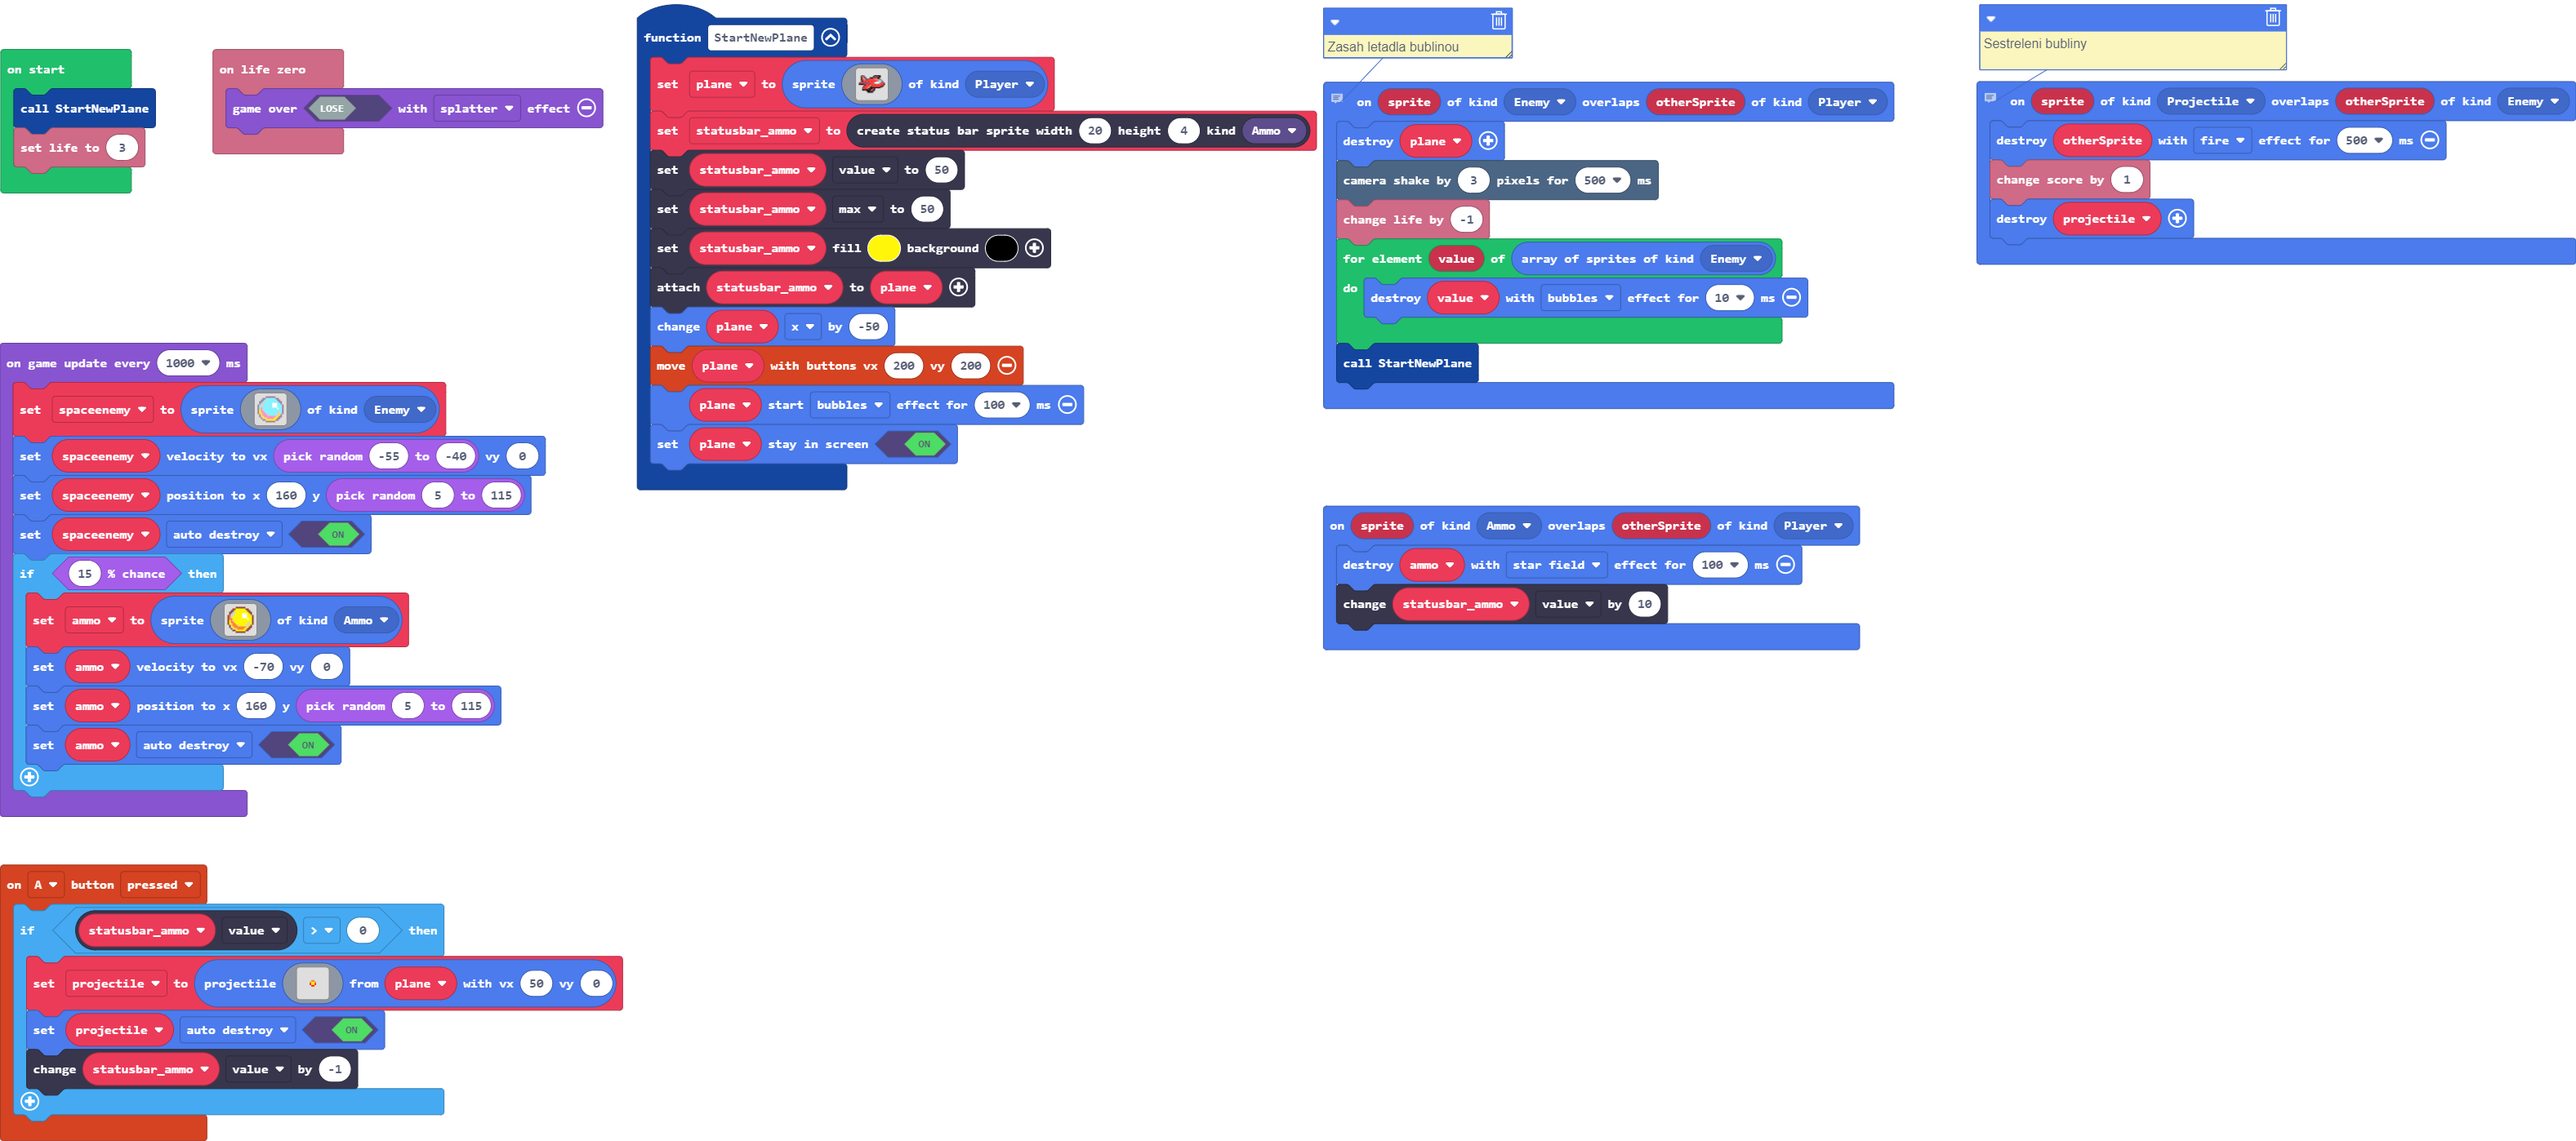
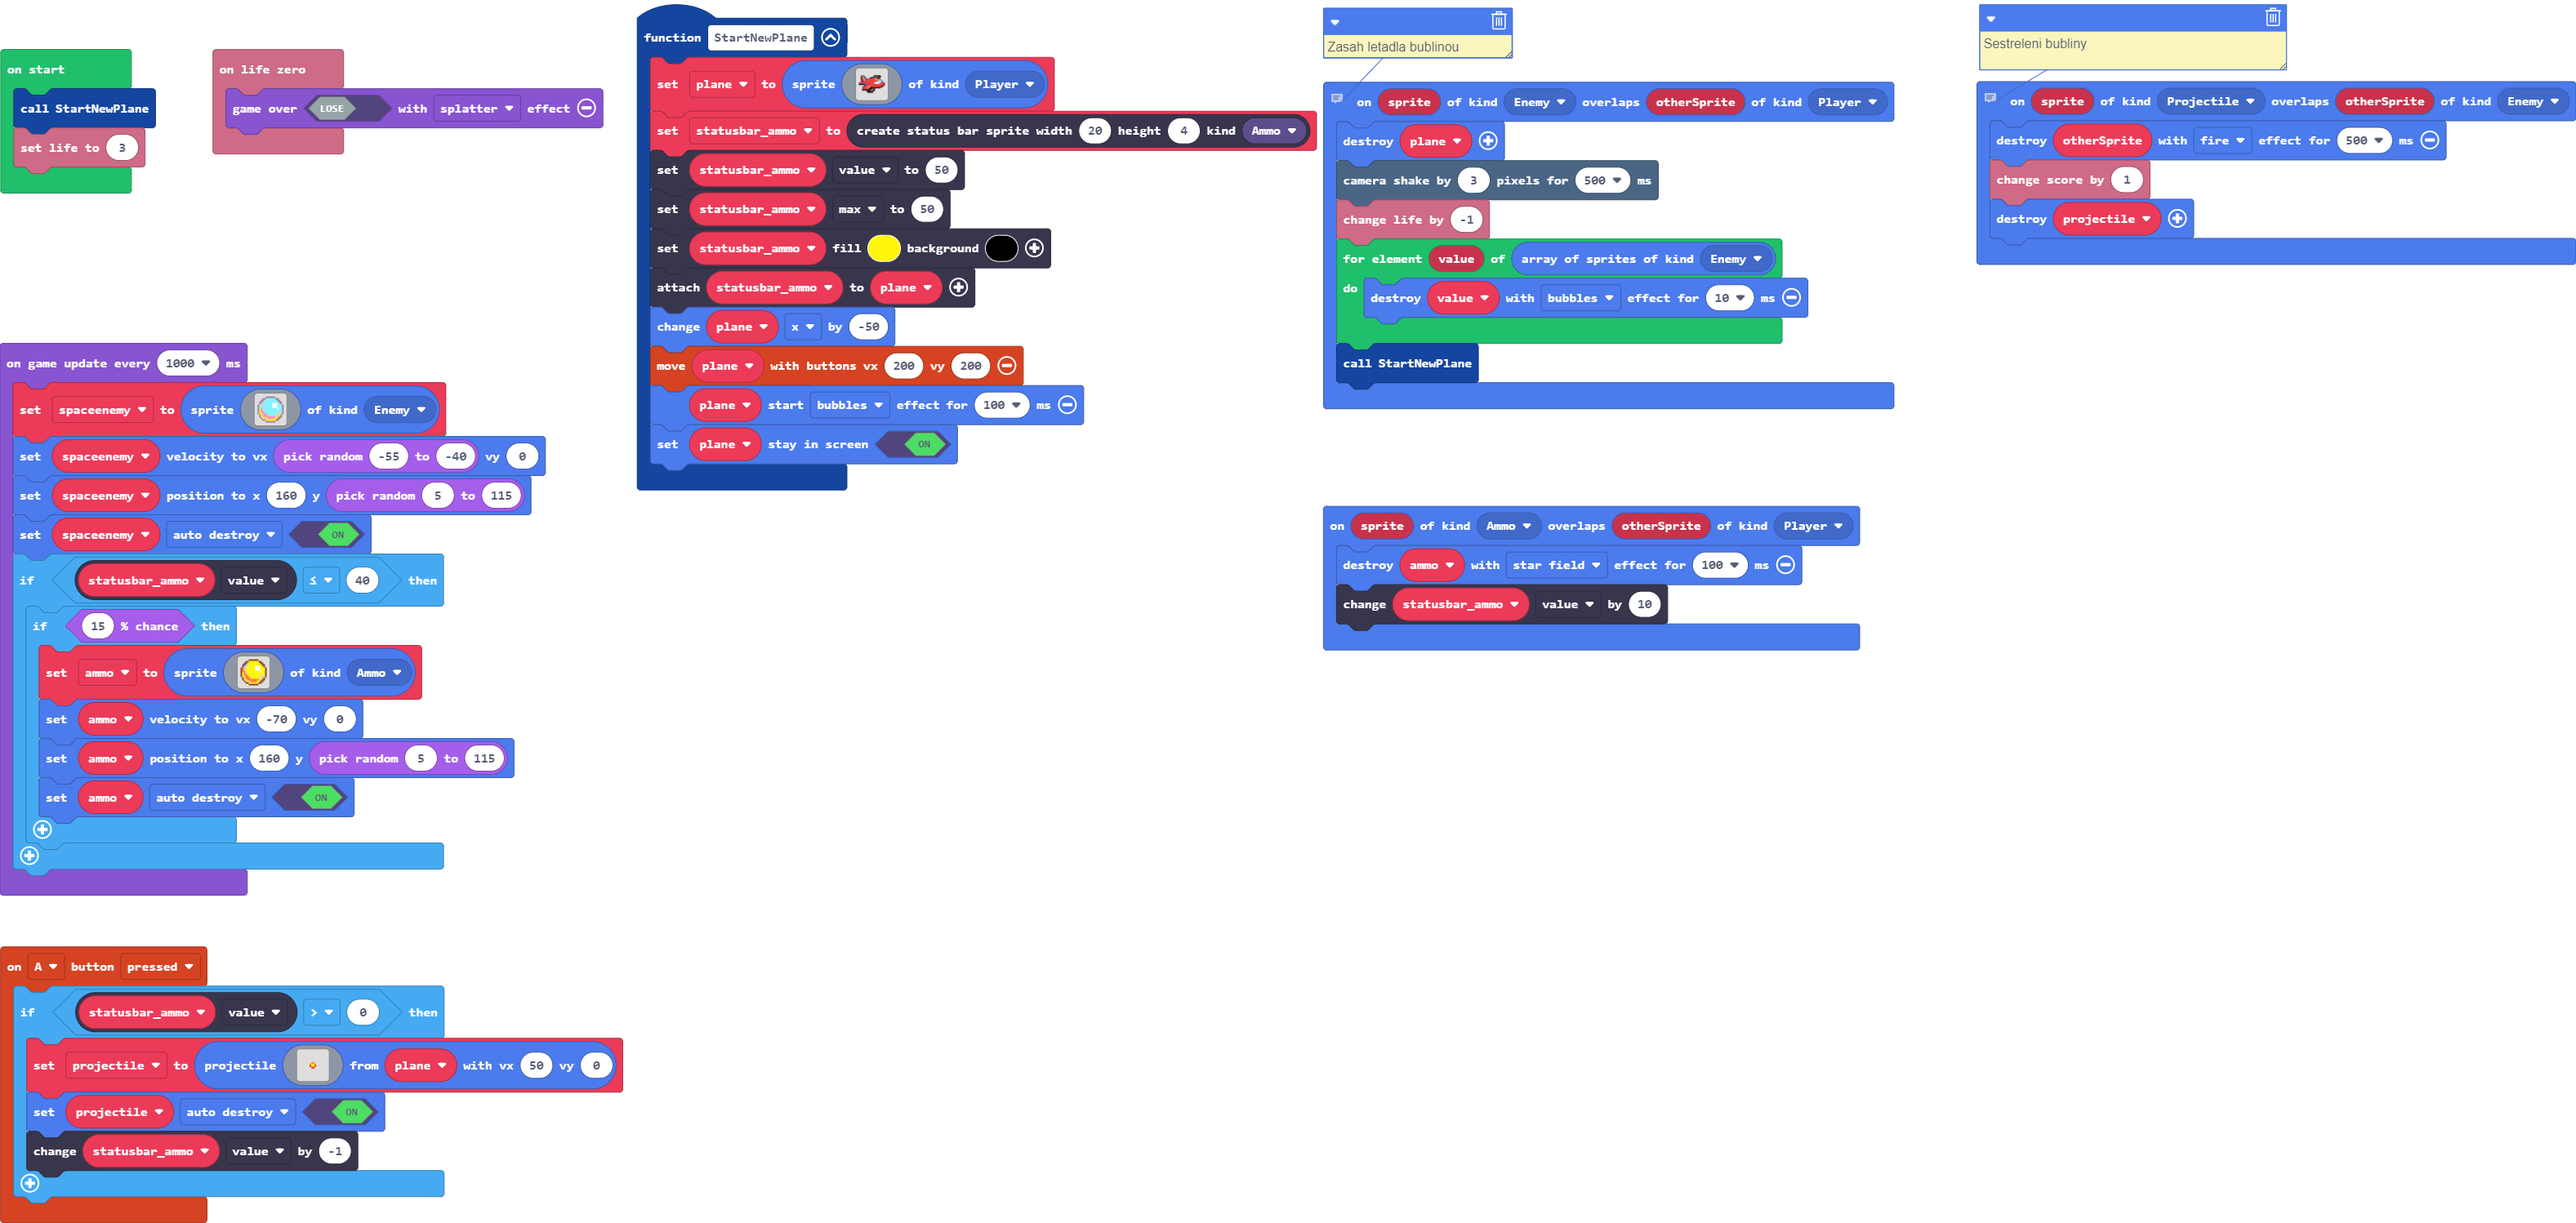
doplneni streliva jen kdyz je to potreba

Changed region(s): [[0.0, 0.0, 1.0, 0.4306], [0.0, 0.2768, 0.2486, 0.9843], [0.4971, 0.3999, 0.7457, 0.5844]]

diff --git a/main.ts b/main.ts
@@ -109,27 +109,29 @@ game.onUpdateInterval(1000, function () {
     spaceenemy.setVelocity(randint(-55, -40), 0)
     spaceenemy.setPosition(160, randint(5, 115))
     spaceenemy.setFlag(SpriteFlag.AutoDestroy, true)
-    if (Math.percentChance(15)) {
-        ammo = sprites.create(img`
-            . . . . . e e e e e e . . . . . 
-            . . . e e 5 5 5 5 5 5 e e . . . 
-            . . e e 5 5 5 5 5 5 5 5 e e . . 
-            . e e 9 d 5 5 5 5 5 5 5 5 e e . 
-            . e 9 d 5 5 5 5 5 1 1 1 5 5 e . 
-            e 4 d d 5 5 5 5 5 1 1 1 5 5 5 e 
-            e 4 d 5 5 5 5 5 5 1 1 1 5 5 5 e 
-            e 4 4 5 5 5 5 5 5 5 5 5 1 5 5 e 
-            e 5 4 d 5 5 5 5 5 5 5 5 5 5 5 e 
-            e 5 4 4 5 5 5 5 5 5 5 5 5 d 5 e 
-            e 5 d 4 4 5 5 5 5 5 5 5 d d 5 e 
-            . e 5 4 4 4 d 5 5 5 5 d d 5 e . 
-            . e d 5 4 4 4 4 4 4 4 d 5 e e . 
-            . . e d 5 d 4 4 4 4 5 5 e e . . 
-            . . . e e 5 5 5 5 5 5 e e . . . 
-            . . . . . e e e e e e . . . . . 
-            `, SpriteKind.Ammo)
-        ammo.setVelocity(-70, 0)
-        ammo.setPosition(160, randint(5, 115))
-        ammo.setFlag(SpriteFlag.AutoDestroy, true)
+    if (statusbar_ammo.value <= 40) {
+        if (Math.percentChance(15)) {
+            ammo = sprites.create(img`
+                . . . . . e e e e e e . . . . . 
+                . . . e e 5 5 5 5 5 5 e e . . . 
+                . . e e 5 5 5 5 5 5 5 5 e e . . 
+                . e e 9 d 5 5 5 5 5 5 5 5 e e . 
+                . e 9 d 5 5 5 5 5 1 1 1 5 5 e . 
+                e 4 d d 5 5 5 5 5 1 1 1 5 5 5 e 
+                e 4 d 5 5 5 5 5 5 1 1 1 5 5 5 e 
+                e 4 4 5 5 5 5 5 5 5 5 5 1 5 5 e 
+                e 5 4 d 5 5 5 5 5 5 5 5 5 5 5 e 
+                e 5 4 4 5 5 5 5 5 5 5 5 5 d 5 e 
+                e 5 d 4 4 5 5 5 5 5 5 5 d d 5 e 
+                . e 5 4 4 4 d 5 5 5 5 d d 5 e . 
+                . e d 5 4 4 4 4 4 4 4 d 5 e e . 
+                . . e d 5 d 4 4 4 4 5 5 e e . . 
+                . . . e e 5 5 5 5 5 5 e e . . . 
+                . . . . . e e e e e e . . . . . 
+                `, SpriteKind.Ammo)
+            ammo.setVelocity(-70, 0)
+            ammo.setPosition(160, randint(5, 115))
+            ammo.setFlag(SpriteFlag.AutoDestroy, true)
+        }
     }
 })
